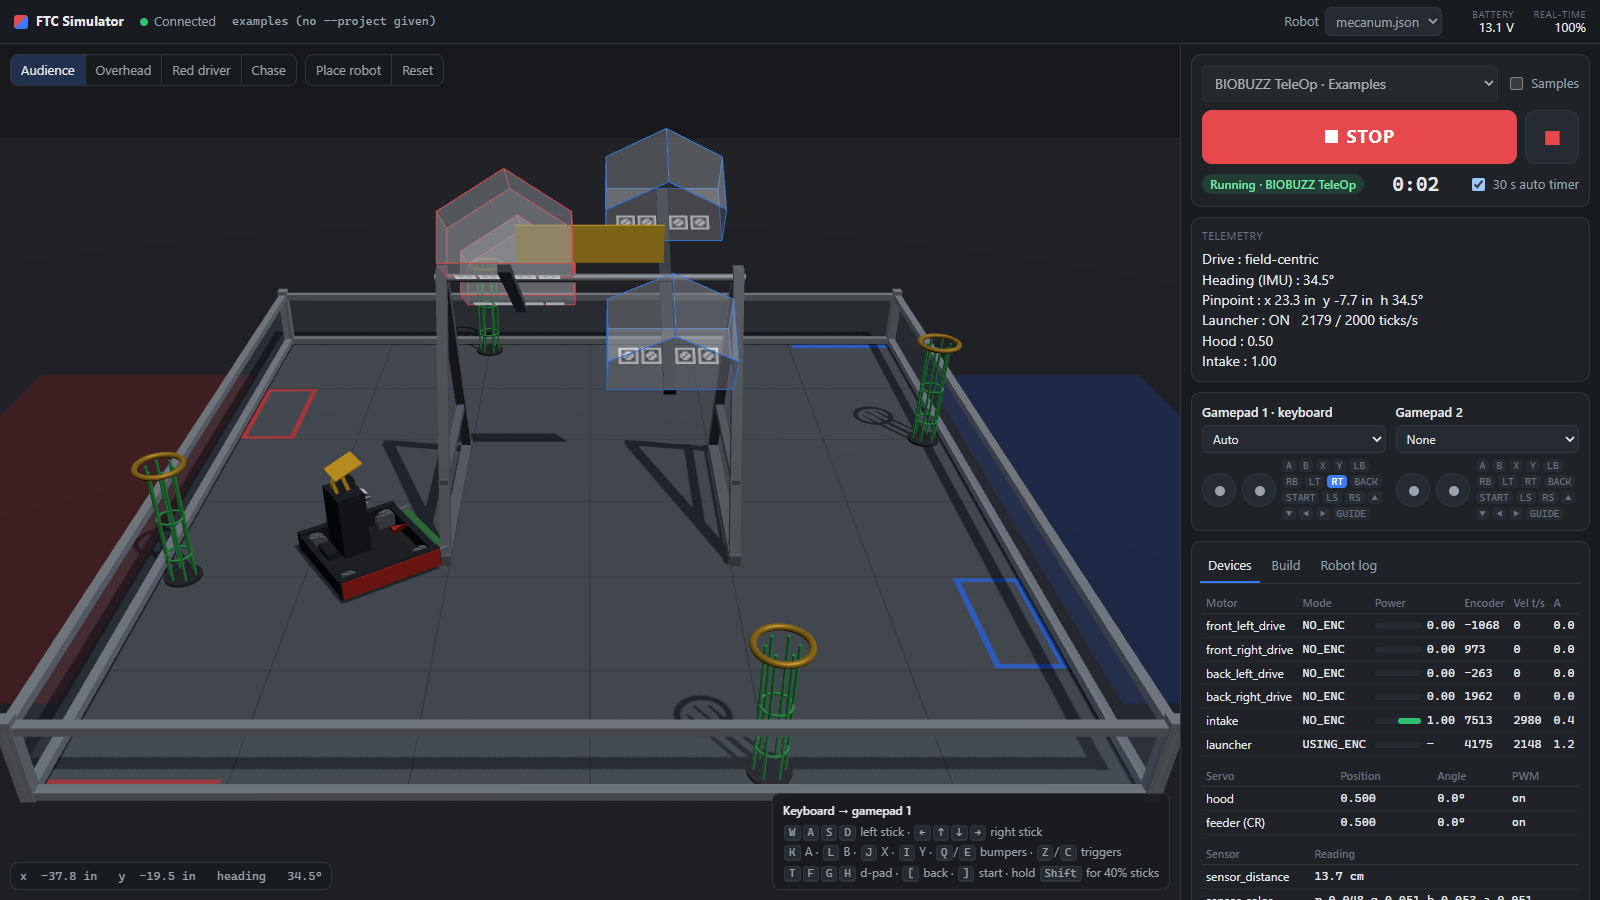
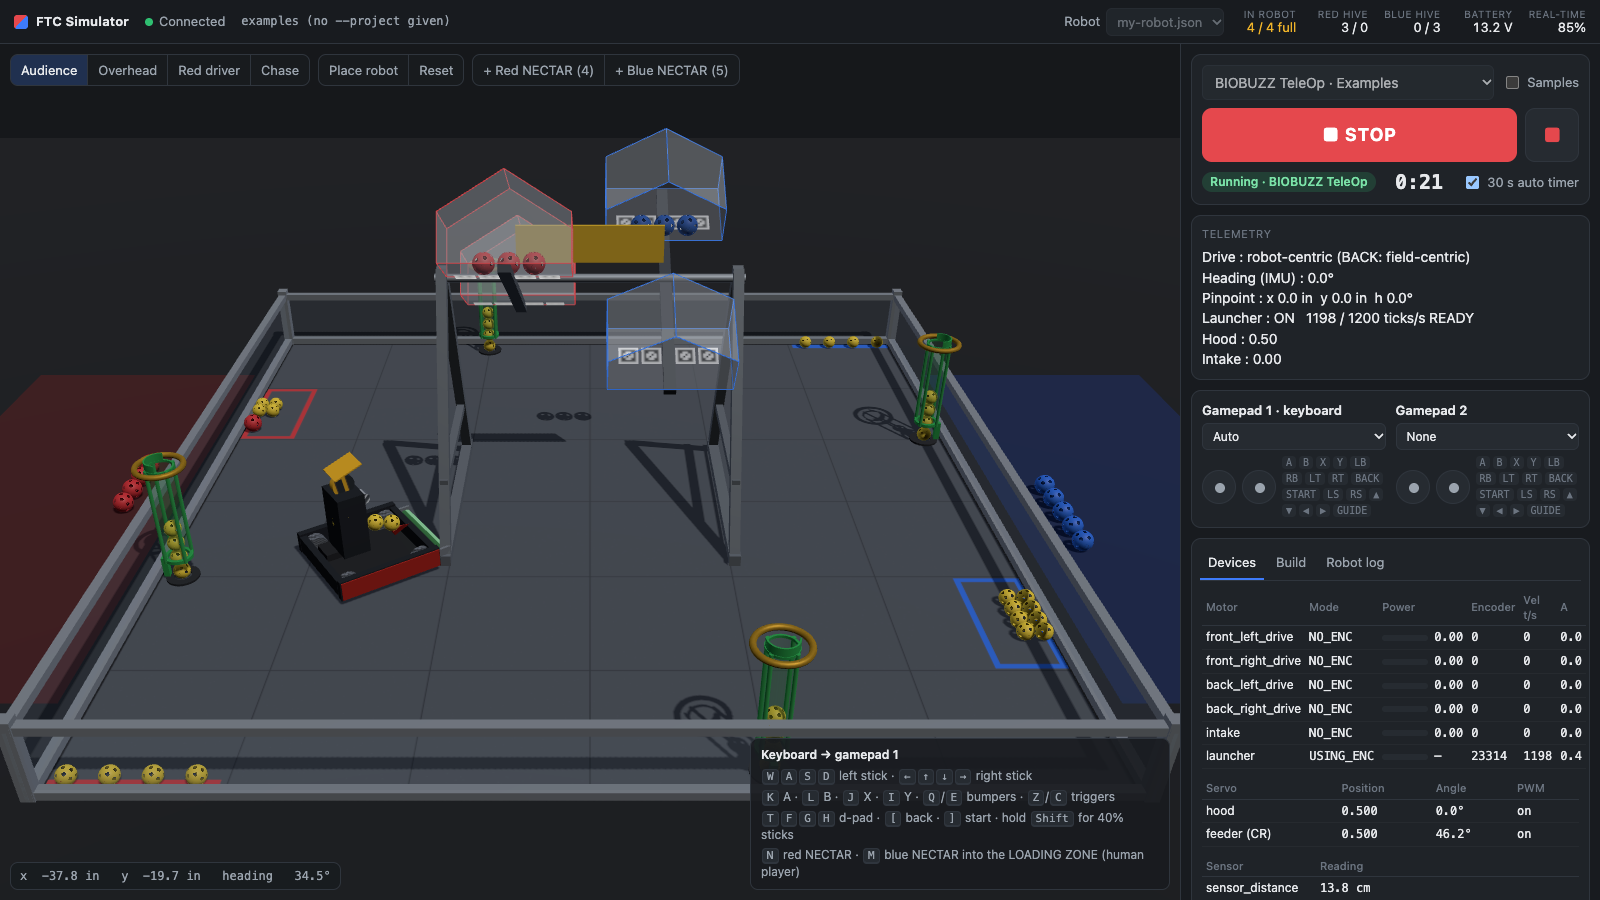
README: parking auto, my-robot.json, launcher speed, human player NECTAR; new screenshot
Document BIOBUZZ Parking, robots/my-robot.json and the tracked sim.properties,
the TeleOp's d-pad left/right launcher speed, the N / M human-player NECTAR
keys, and run-sim.sh finding a JDK in ~/.jdks on macOS. Replace the screenshot
with one showing the new FLOWERS, game pieces and HIVES.

diff --git a/README.md b/README.md
@@ -14,7 +14,9 @@ same code to the robot as usual. Nothing in TeamCode changes.
 ## Quick start
 
 1. Install a JDK 17 or newer (Android Studio's bundled JDK works, or [Temurin](https://adoptium.net)).
-   `run-sim.bat` also finds a JDK unpacked in `%USERPROFILE%\.jdks`.
+   `run-sim.bat` also finds a JDK unpacked in `%USERPROFILE%\.jdks`, and `run-sim.sh` one in
+   `~/.jdks` (on macOS, including the `Contents/Home` layout, even when macOS's placeholder
+   `javac` says "Unable to locate a Java Runtime").
 2. Start the simulator with your robot project:
 
    ```bat
@@ -25,8 +27,8 @@ same code to the robot as usual. Nothing in TeamCode changes.
    runs the bundled examples and the official FTC samples.
 3. Your browser opens at <http://localhost:8080>. Pick an OpMode, press **INIT**, then **▶ START**.
 
-To avoid typing the path every time, copy `sim.properties.example` to `sim.properties` and set
-`project=`.
+Defaults live in `sim.properties` (`sim.properties.example` is the template). In this repository it
+selects `robots/my-robot.json`; set `project=` there to avoid typing the path every time.
 
 ## The edit → simulate → robot loop
 
@@ -66,6 +68,10 @@ operating system. The Xbox Guide button may be taken by the Windows Game Bar.
 
 With one controller, set **Gamepad 2 → Keyboard** to try two-driver code.
 
+**Human player:** press **N** (red) or **M** (blue), or the *+ Red NECTAR* / *+ Blue NECTAR*
+buttons above the 3D view, to put one NECTAR into that alliance's LOADING ZONE (5 per color until
+*Reset*).
+
 **The example BIOBUZZ TeleOp** (`examples/teamcode`, default robot):
 
 | Control | Does |
@@ -78,6 +84,13 @@ With one controller, set **Gamepad 2 → Keyboard** to try two-driver code.
 | Y (`I`) | launcher on/off; the controller rumbles when it is up to speed |
 | RB (`E`) | shoot (only once the launcher is up to speed) |
 | d-pad up/down (`T` / `G`) | raise / lower the hood |
+| d-pad left/right (`F` / `H`) | launcher speed down / up, 100 ticks/s per press (400 to 2600, starts at 1200) |
+
+**The example BIOBUZZ Parking** autonomous (`examples/teamcode`, `robots/my-robot.json`): starts
+with its back against the audience wall, facing into the open end of the red HIVE's audience
+CELL, then drives around the A-frame and the red FLOWER and backs into the red LOADING ZONE,
+using Pinpoint field coordinates (`pinpoint.setPosition` at START). It takes about 7 seconds and
+then preselects BIOBUZZ TeleOp.
 
 ## The Driver Station panel
 
@@ -104,6 +117,9 @@ looks devices up by those names.
   sample names `front_left_drive` …, plus `imu`, `pinpoint`, `sensor_otos`, `sensor_distance`,
   `sensor_color`, `sensor_touch`, `digitalTouch`, and a BIOBUZZ-style `intake`, `launcher`
   (flywheel), `hood` servo and `feeder` CR servo.
+- `robots/my-robot.json`: the same mecanum robot, starting with its back against the audience
+  wall and facing into the red HIVE's audience CELL (`"start": [-0.3239, -1.5964, 90]`). It is
+  the default here through `sim.properties`; the tests keep using `robots/mecanum.json`.
 - `robots/tank.json`: six-wheel drop-center tank with `left_drive` / `right_drive`, an arm
   (`left_arm`, also `arm`) and claw servos (`left_hand`, `right_hand`), for the classic samples.
 
